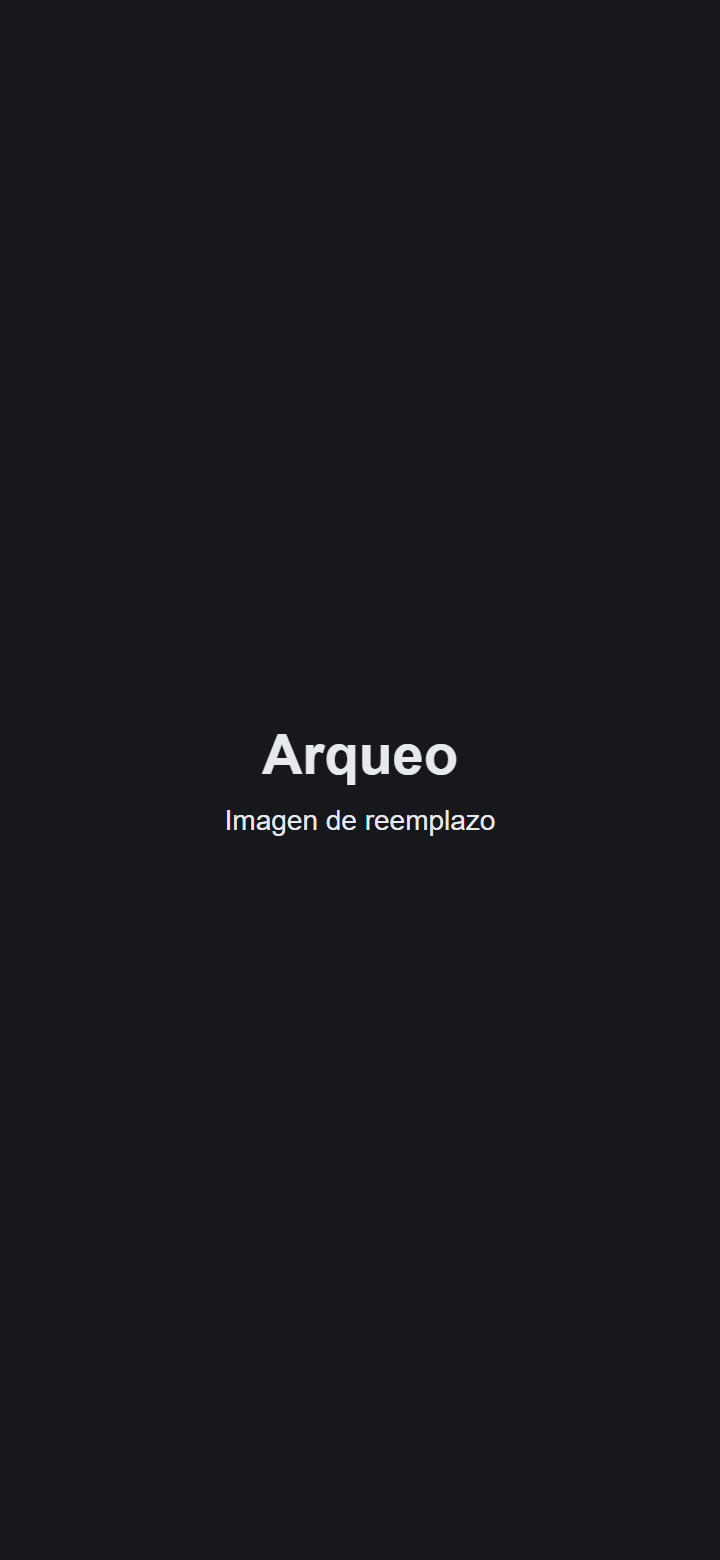
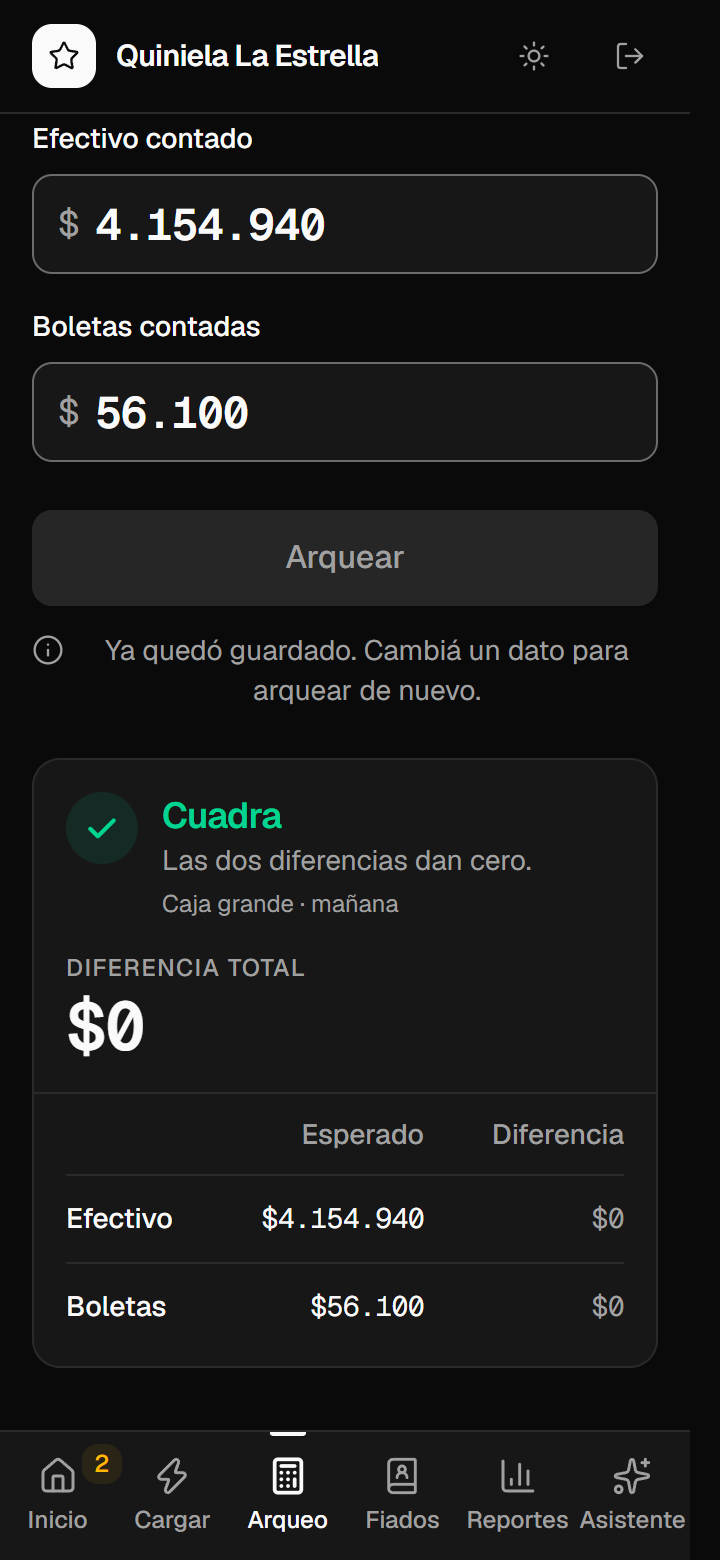
feat: capturas reales de la app en #trabajo y sus textos alternativos

diff --git a/src/components/trabajo/pantallas.ts b/src/components/trabajo/pantallas.ts
@@ -13,12 +13,12 @@ export const pantallas = [
 	{
 		id: 'arqueo', pose: 'izq', img: arqueo, icono: 'scales-duotone', corto: 'Arqueo', momento: 'Al cerrar la caja', nombre: 'Arqueo',
 		texto: 'Cargás lo que contaste y te dice al instante si cierra o de cuánto es la diferencia.',
-		alt: 'Pantalla de arqueo de la app: dos campos para el efectivo y las boletas contados, y el resultado, que cierra o muestra la diferencia.',
+		alt: 'Pantalla de arqueo de la app: el efectivo y las boletas contados, y el resultado «Cuadra», con lo esperado y la diferencia de cada uno.',
 	},
 	{
 		id: 'asistente', pose: 'frente', img: asistente, icono: 'chat-circle-text-duotone', corto: 'Asistente', momento: 'Si no cuadra', nombre: 'Asistente',
 		texto: 'Le preguntás «¿por qué no cuadra?» y te dice qué revisar. Solo consulta: no carga ni cambia nada.',
-		alt: 'Chat del asistente de la app: una pregunta sobre un arqueo que no cuadra y la respuesta que señala qué movimiento revisar.',
+		alt: 'Pantalla del asistente de la app: la pregunta «¿Quién debe hace más de 30 días?» y la respuesta, que nombra la deuda más vieja y su saldo.',
 	},
 ];
 
